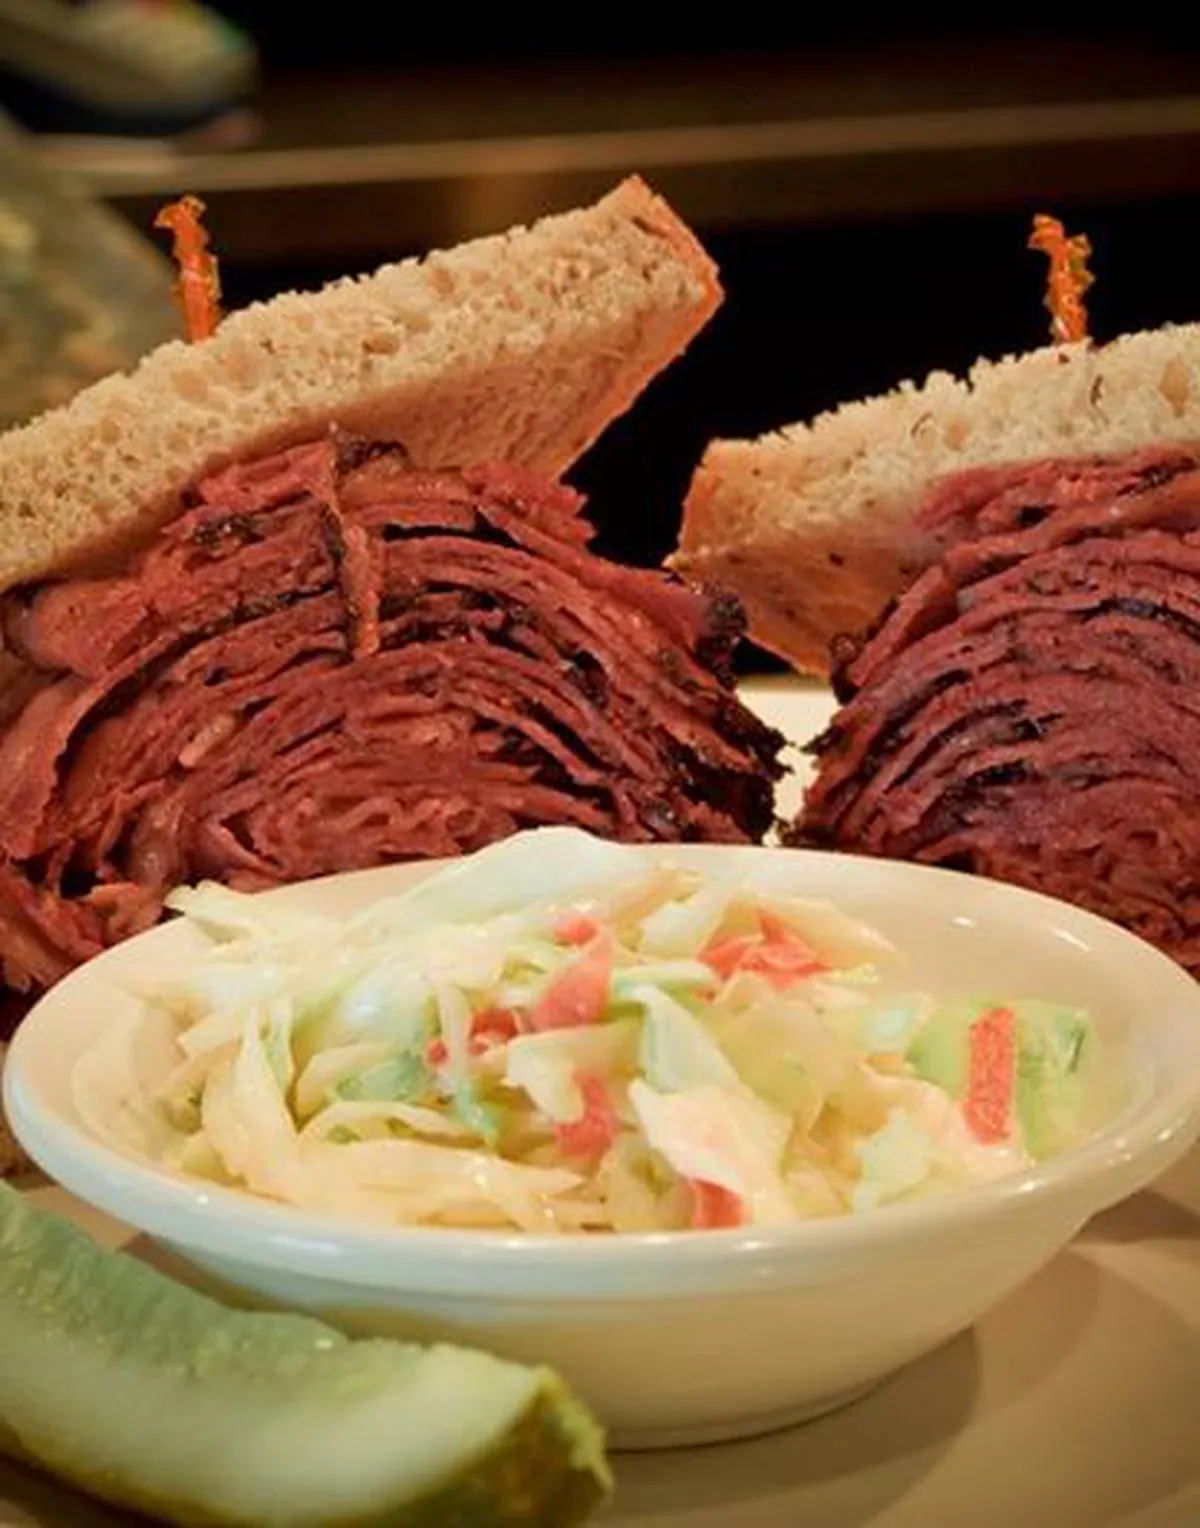
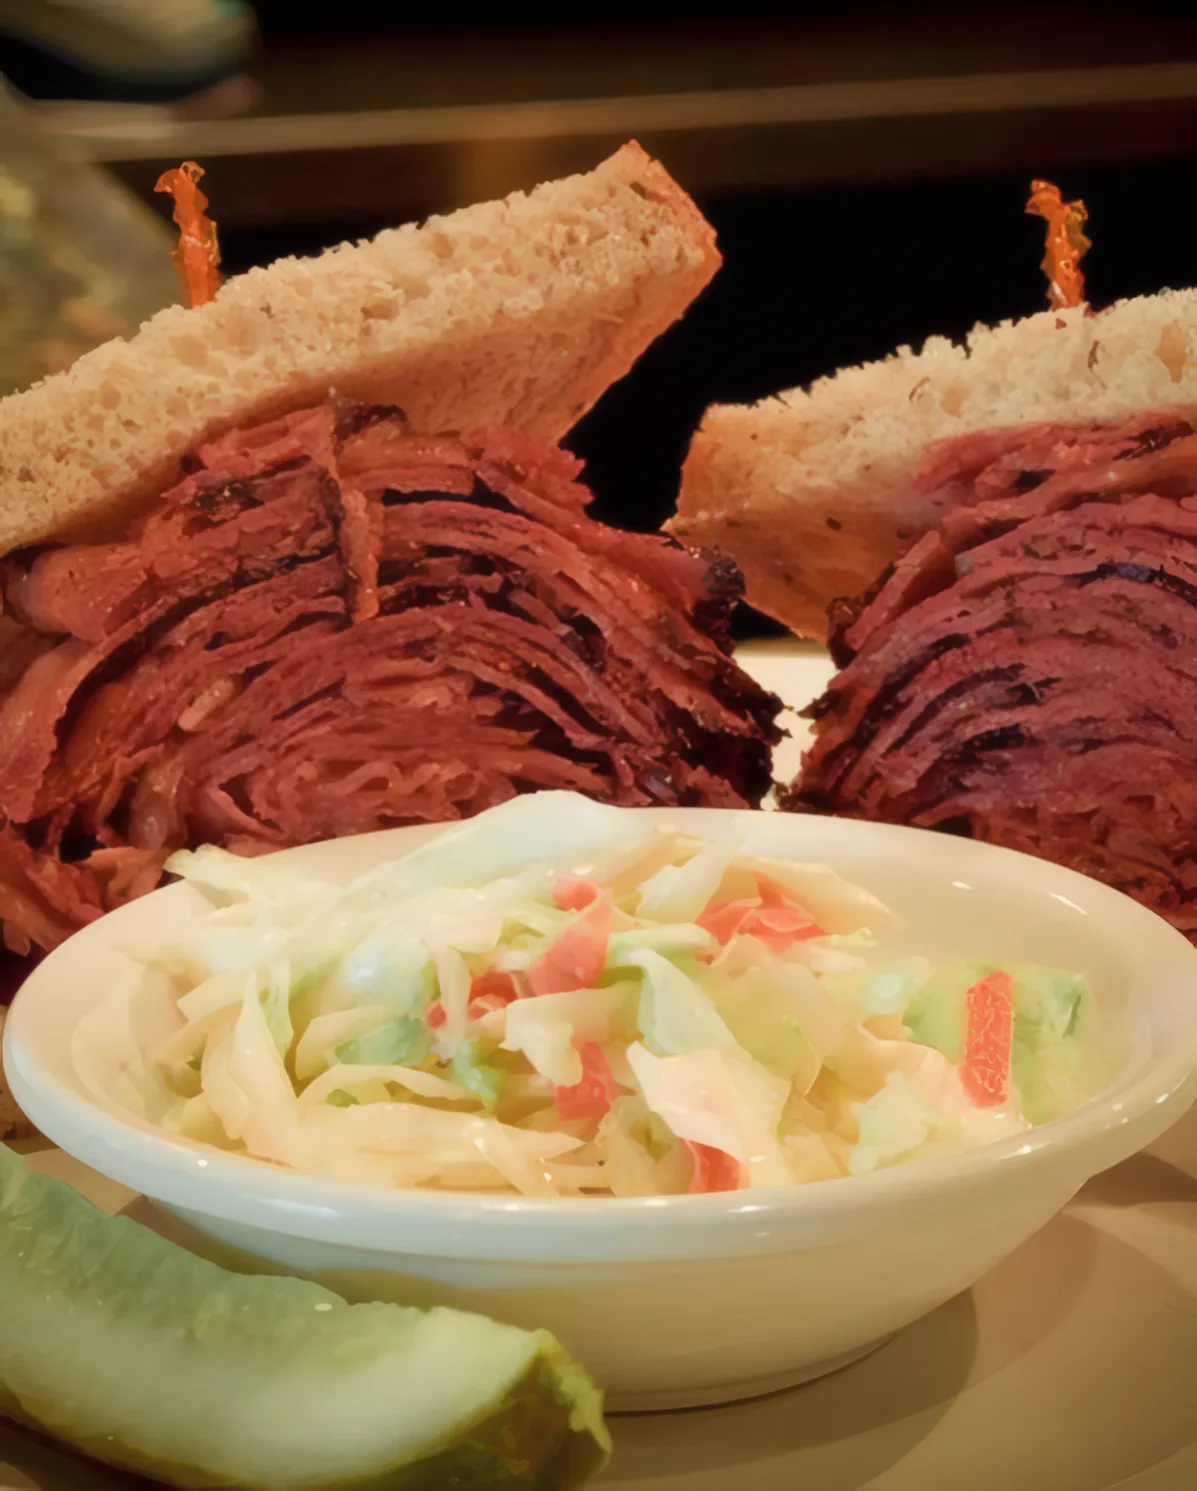
Update concepts 2026-10-22 18:47

diff --git a/grand-plaza-cafe/site.css b/grand-plaza-cafe/site.css
@@ -18,7 +18,7 @@ a{color:inherit}
 .vh{position:absolute!important;width:1px;height:1px;overflow:hidden;clip:rect(0 0 0 0);white-space:nowrap}
 
 /* ---------- header ---------- */
-.hd{position:sticky;top:0;z-index:40;background:rgba(251,249,245,.97);border-bottom:1px solid transparent;transition:border-color .3s}
+.hd{position:sticky;top:0;z-index:40;background:var(--bg);border-bottom:1px solid transparent;transition:border-color .3s}
 .hd.is-scrolled{border-bottom-color:var(--line)}
 .hd__in{display:flex;align-items:center;gap:18px;max-width:var(--max);margin:0 auto;padding:10px var(--pad);min-height:68px}
 .logo{font:italic 600 1.5rem/1 var(--display);font-variation-settings:"opsz" 48,"SOFT" 60;text-decoration:none;letter-spacing:-.01em;white-space:nowrap;margin-right:auto;padding-block:8px}
@@ -31,7 +31,7 @@ a{color:inherit}
 .nav .nav__far{display:inline-flex}
 @media (max-width:899px){
   .nav .nav__far,.hd__tel{display:none}
-  .hd__in{gap:6px;padding-block:8px;min-height:62px}
+  .hd__in{gap:6px;padding-block:6px;min-height:56px}
   .logo{font-size:1.28rem}
   .nav a{padding:12px 10px}
   .hd__call{display:inline-flex;align-items:center;gap:7px;min-height:44px;padding:0 16px;background:var(--ox);color:#fff;text-decoration:none;font-weight:600;border-radius:2px}
@@ -147,7 +147,7 @@ a:hover .k-roll>span{transform:translateY(-50%)}
 .k-menu{max-width:var(--max);margin:0 auto;padding:clamp(70px,10vw,150px) var(--pad)}
 .k-menu__head{display:flex;flex-wrap:wrap;align-items:end;justify-content:space-between;gap:16px 40px;margin-bottom:26px}
 .k-menu__note{color:var(--mute);max-width:26em;font-size:.95rem}
-.k-menu__tabs{position:sticky;top:62px;z-index:5;display:flex;gap:2px;overflow-x:auto;scrollbar-width:none;background:var(--bg);border-bottom:1px solid var(--line);margin-bottom:30px}
+.k-menu__tabs{position:sticky;top:56px;z-index:5;display:flex;gap:2px;overflow-x:auto;scrollbar-width:none;background:var(--bg);border-bottom:1px solid var(--line);margin-bottom:30px}
 .k-menu__tabs::-webkit-scrollbar{display:none}
 .k-menu__tabs button{flex:none;background:none;border:0;font:500 1.05rem var(--body);color:var(--mute);padding:14px 14px;min-height:48px;cursor:pointer;position:relative;transition:color .25s}
 .k-menu__tabs button[aria-selected=true]{color:var(--ink)}
@@ -187,7 +187,7 @@ a:hover .k-roll>span{transform:translateY(-50%)}
 /* ---------- parties band ---------- */
 .party{border-top:1px solid var(--line);border-bottom:1px solid var(--line)}
 .party__in{display:grid;grid-template-columns:minmax(0,1fr);gap:24px;padding-block:clamp(50px,7vw,96px)}
-.party .h2{font-size:clamp(2.3rem,5vw,4.6rem)}
+.party .h2{font-size:clamp(3rem,9vw,7.5rem)}
 .party p{max-width:30em;color:var(--mute);font-size:1.1rem}
 @media (min-width:900px){.party__in{grid-template-columns:minmax(0,1.2fr) minmax(0,1fr);align-items:end}}
 
@@ -231,10 +231,10 @@ a:hover .k-roll>span{transform:translateY(-50%)}
 .ph-head__ph{margin-top:0;aspect-ratio:16/10}
 .ph-head__ph img{object-position:50% 55%}
 @media (min-width:900px){.ph-head{grid-template-columns:minmax(0,1.25fr) minmax(0,1fr);grid-template-rows:auto auto;column-gap:clamp(30px,5vw,80px);row-gap:28px;align-items:end}.ph-head .hero__h{grid-column:1;grid-row:1}.ph-head>.hero__fade{grid-column:1;grid-row:2}.ph-head__ph{grid-column:2;grid-row:1/3;aspect-ratio:4/5;max-height:72svh;min-height:0}}
-.jump{position:sticky;top:62px;z-index:20;background:var(--bg);border-block:1px solid var(--line)}
+.jump{position:sticky;top:56px;z-index:20;background:var(--bg);border-block:1px solid var(--line)}
 .jump__in{display:flex;gap:2px;overflow-x:auto;scrollbar-width:none;max-width:var(--max);margin:0 auto;padding:0 calc(var(--pad) - 12px)}
 .jump__in::-webkit-scrollbar{display:none}
-.jump a{flex:none;text-decoration:none;font-weight:500;padding:13px 12px;min-height:48px;display:inline-flex;align-items:center;color:var(--mute)}
+.jump a{flex:none;text-decoration:none;font-weight:500;padding:10px 12px;min-height:44px;display:inline-flex;align-items:center;color:var(--mute)}
 .jump a.is-on{color:var(--ink);box-shadow:inset 0 -3px 0 var(--ox)}
 @media (min-width:900px){.jump{top:68px}}
 .mpart{max-width:var(--max);margin:0 auto;padding:clamp(60px,8vw,120px) var(--pad) 0}
@@ -278,3 +278,17 @@ a:hover .k-roll>span{transform:translateY(-50%)}
 /* tap targets */
 .logo{min-height:44px;display:inline-flex;align-items:center;gap:.25em}
 .hero__acts .k-link,.k-visit__acts .k-link,.k-menu__more{display:inline-flex;align-items:center;gap:.3em;min-height:44px;padding-block:0;background-position:0 calc(100% - 6px)}
+
+/* coordinator round */
+@media (max-width:399px){.k-menu__tabs button{padding:14px 9px}}
+.hero__facts .badge{color:#1d5e36}.hero__facts .badge.is-shut{color:#8e2a20}.hero__facts .badge span{color:inherit}
+@media (min-width:900px){
+  .hero{grid-template-columns:minmax(0,1fr) min(540px,40vw)}
+  .room__top .room__ph{grid-column:1/7;max-width:560px;width:100%}
+  .room__top .bar{grid-column:8/12}
+}
+.room__ph img{height:100%;top:0}
+.solo{margin-top:30px}
+@media (min-width:900px){.solo{display:grid;grid-template-columns:repeat(12,minmax(0,1fr))}.solo .mphoto{grid-column:1/6}}
+.ways__list{grid-template-columns:repeat(auto-fit,minmax(min(100%,210px),1fr))}
+@media (min-width:1000px){.ways__list{grid-template-columns:repeat(4,minmax(0,1fr))}}

diff --git a/grand-plaza-cafe/index.html b/grand-plaza-cafe/index.html
@@ -35,7 +35,7 @@
       <span class="ln ln--3" aria-hidden="true"><span style="--i:2">piled high.</span></span>
     </h1>
     <figure class="hero__ph">
-    <img src="img/corned-beef-rye.webp" width="1200" height="1528" alt="A corned beef sandwich on rye, cut in half and piled high, with a cup of coleslaw and a pickle" fetchpriority="high">
+    <img src="img/corned-beef-rye.webp" width="1197" height="1491" alt="A corned beef sandwich on rye, cut in half and piled high, with a cup of coleslaw and a pickle" fetchpriority="high">
     <figcaption>Corned beef on rye</figcaption>
   </figure>
     <div class="hero__rest">
@@ -127,7 +127,7 @@
 
 <section class="room" id="room" aria-labelledby="room-h">
   <div class="room__top">
-  <div class="room__ph" data-reveal="clip"><img src="img/dining-room.webp" width="2400" height="1792" alt="The dining room: dark wood chairs, set tables, warm yellow walls and colourful paintings" loading="lazy" data-speed="-0.08"></div>
+  <div class="room__ph" data-reveal="clip"><img src="img/dining-room.webp" width="2400" height="1792" alt="The dining room: dark wood chairs, set tables, warm yellow walls and colourful paintings" loading="lazy"></div>
     <div class="bar">
       <div class="bar__ph k-zoom" data-reveal="clip"><img src="img/bar.webp" width="2400" height="1792" alt="The bar counter with stools, wine glasses hanging above and a TV on the wall" loading="lazy"></div>
       <div>
@@ -185,7 +185,7 @@
     </div>
   </div>
   <a class="k-visit__map" href="https://www.google.com/maps/search/?api=1&amp;query=4040+Little+Rd,+New+Port+Richey,+FL+34655" target="_blank" rel="noopener">
-    <img src="img/map.webp" width="1000" height="760" alt="Street map: the Grand Trinity Plaza on Little Road, just north of Old County Road 54, New Port Richey" loading="lazy">
+    <img src="img/map.webp" width="1000" height="700" alt="Street map: the Grand Trinity Plaza on Little Road, just north of Old County Road 54, New Port Richey" loading="lazy">
     <span class="pin" aria-hidden="true"></span>
     <span class="map-open">Open in Google Maps <span class="k-arrow" aria-hidden="true">→</span></span>
     <small class="map-credit">Map data © OpenStreetMap contributors</small>

diff --git a/grand-plaza-cafe/services.html b/grand-plaza-cafe/services.html
@@ -47,10 +47,9 @@
 <li data-reveal><strong>Private parties</strong><span>Friday, Saturday and Sunday evenings are available.</span></li>
 <li data-reveal><strong>Catering</strong><span>Available. Call to talk it through.</span></li>
 <li data-reveal><strong>Reservations</strong><span>Accepted. Good for groups and for kids.</span></li>
-<li data-reveal><strong>Curbside and take out</strong><span>Both available.</span></li>
-<li data-reveal><strong>Delivery</strong><span>Through <a class="k-link" href="https://www.doordash.com/business/156956/" target="_blank" rel="noopener">DoorDash</a>.</span></li>
+<li data-reveal><strong>Take out and delivery</strong><span>Curbside pick-up, or delivery through <a class="k-link" href="https://www.doordash.com/business/156956/" target="_blank" rel="noopener">DoorDash</a>.</span></li>
 </ul>
-<div class="duo"><figure class="mphoto"><div class="k-zoom mphoto--wide" data-reveal="clip"><img src="img/booths.webp" width="2400" height="1792" alt="Booths and tables along a half wall, with an arched opening behind" loading="lazy"></div><figcaption style="color:var(--ox-mute)">The booths</figcaption></figure><figure class="mphoto"><div class="k-zoom mphoto--wide" data-reveal="clip"><img src="img/dining-tables.webp" width="2400" height="1792" alt="Rows of set tables in the dining room under warm yellow walls" loading="lazy"></div><figcaption style="color:var(--ox-mute)">The dining room</figcaption></figure></div>
+<div class="solo"><figure class="mphoto"><div class="k-zoom mphoto--wide" data-reveal="clip"><img src="img/booths.webp" width="2400" height="1792" alt="Booths and tables along a half wall, with an arched opening behind" loading="lazy"></div><figcaption style="color:var(--ox-mute)">The booths</figcaption></figure></div>
 <div data-reveal><a class="k-btn k-btn--light" data-k-magnetic="0.25" href="tel:+17272648878">Call about a party <span class="k-arrow" aria-hidden="true">→</span></a></div>
 </div></section>
 </main>
